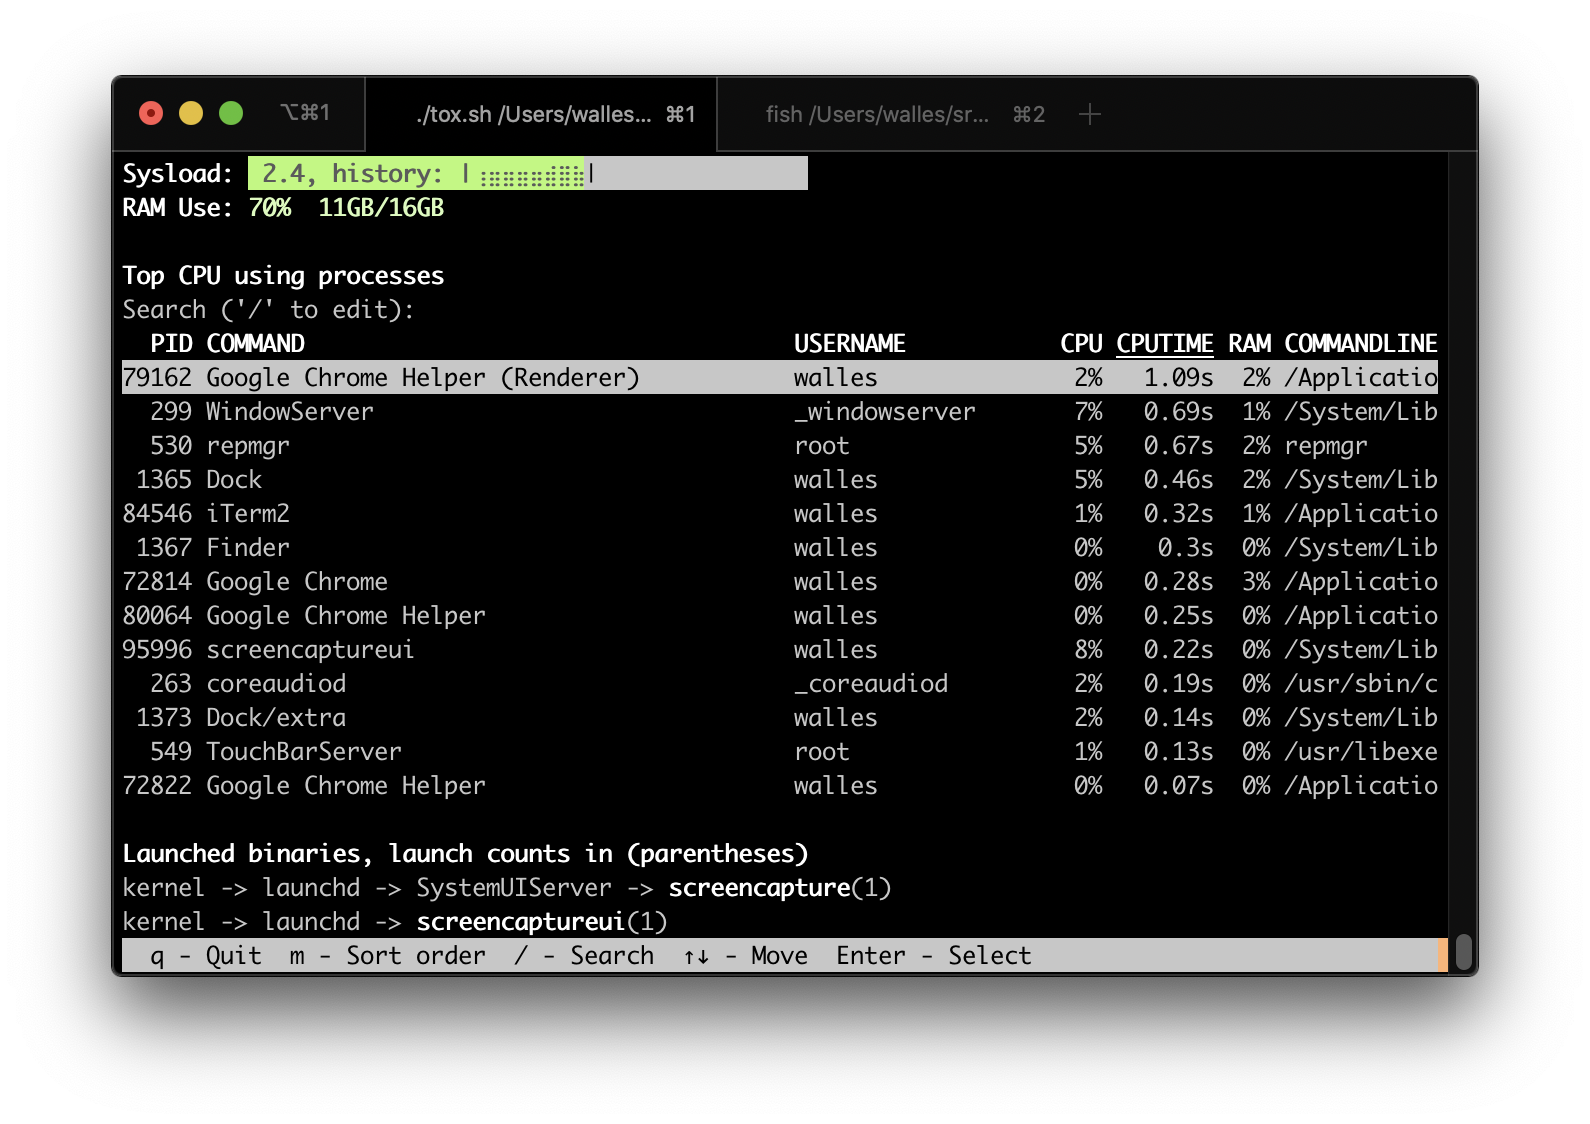
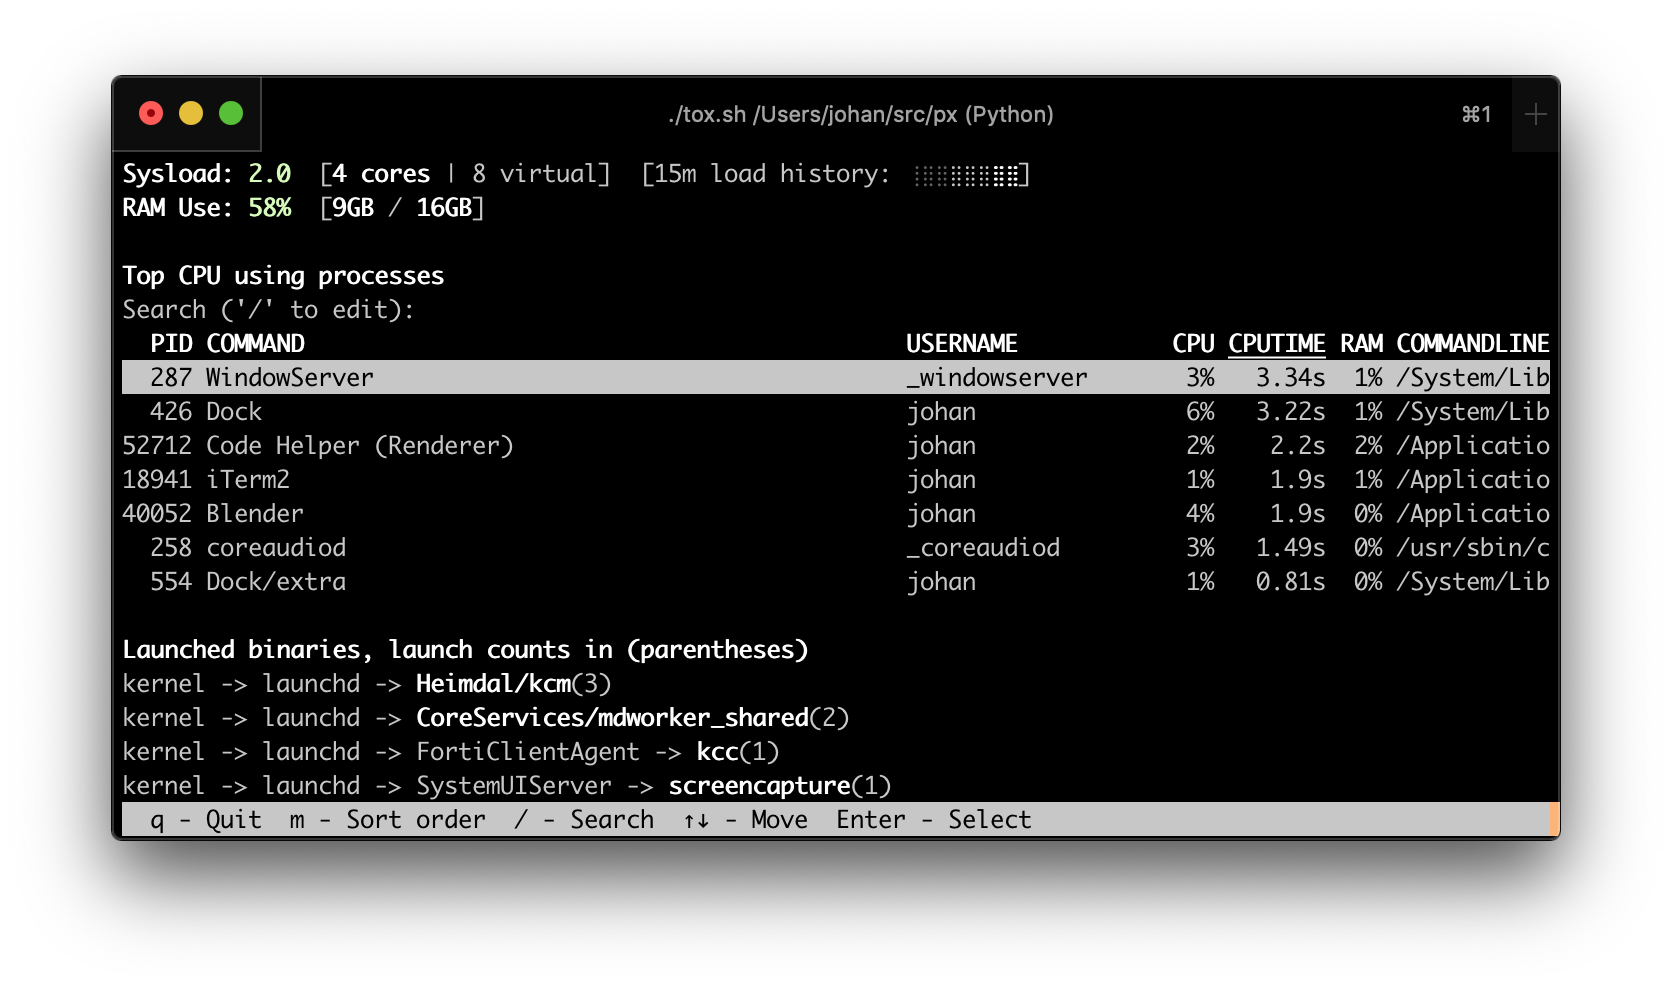
Update screenshot with new RAM + sysload visualization

Changed region(s): [[0.0616, 0.0607, 0.9553, 0.9109]]

diff --git a/README.rst b/README.rst
@@ -1,4 +1,4 @@
-|Build Status| |Coverage Status|
+|Build Status|
 
 ``ps`` and ``top`` for Human Beings
 ===================================
@@ -172,12 +172,9 @@ information; the command will work without it but might miss some information.
 
 * Note how the default sort order of CPU-usage-since-``ptop``-started makes the
   display rather stable.
-* Note the system load bar that correlates the system load with the number of
-  CPU cores in the system. **Green** is load handled by physical cores, **yellow**
-  (not shown here) is load handled by hyperthreading cores, and **red** is load
-  over the number of cores.
-* Note the fifteen minute load history graph in the load bar. On this system the
-  load has been high for the last fifteen minutes. This is a visualization of
+* Note the core count right next to the system load number, for easy comparison.
+* Note the load history graph next to the load numbers. On this system the
+  load has been the same for the last fifteen minutes. This is a visualization of
   the numbers you get from ``uptime``.
 * Note that binaries launched while ``ptop`` is running are listed at the bottom
   of the display.
@@ -322,6 +319,4 @@ DONE
 
 .. |Build Status| image:: https://travis-ci.com/walles/px.svg?branch=python
    :target: https://travis-ci.com/walles/px
-.. |Coverage Status| image:: https://coveralls.io/repos/github/walles/px/badge.svg?branch=python
-   :target: https://coveralls.io/github/walles/px?branch=python
 .. |ptop screenshot| image:: doc/ptop-screenshot.png
